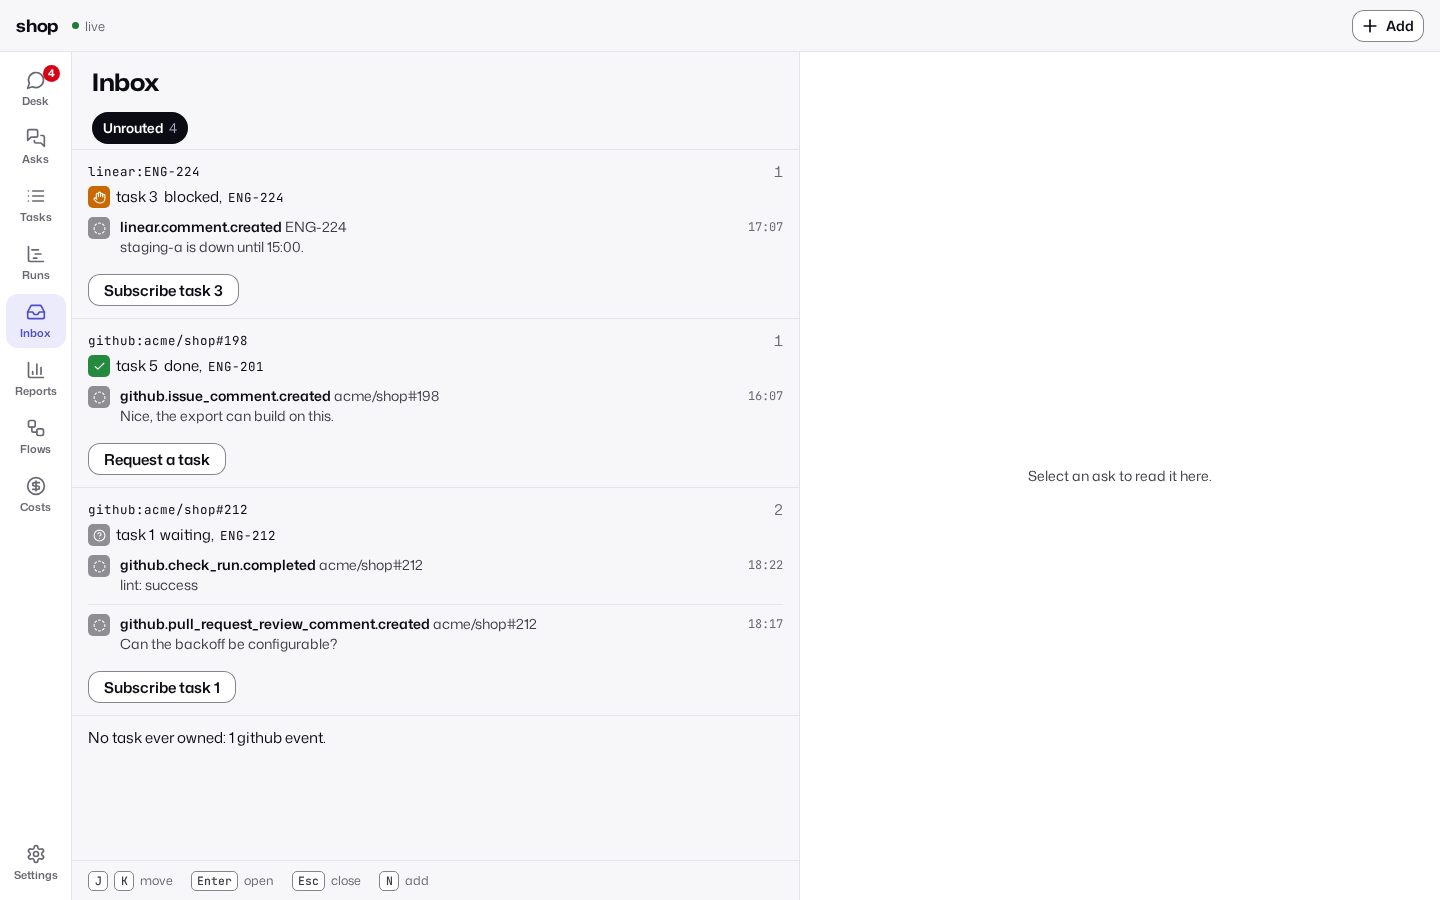
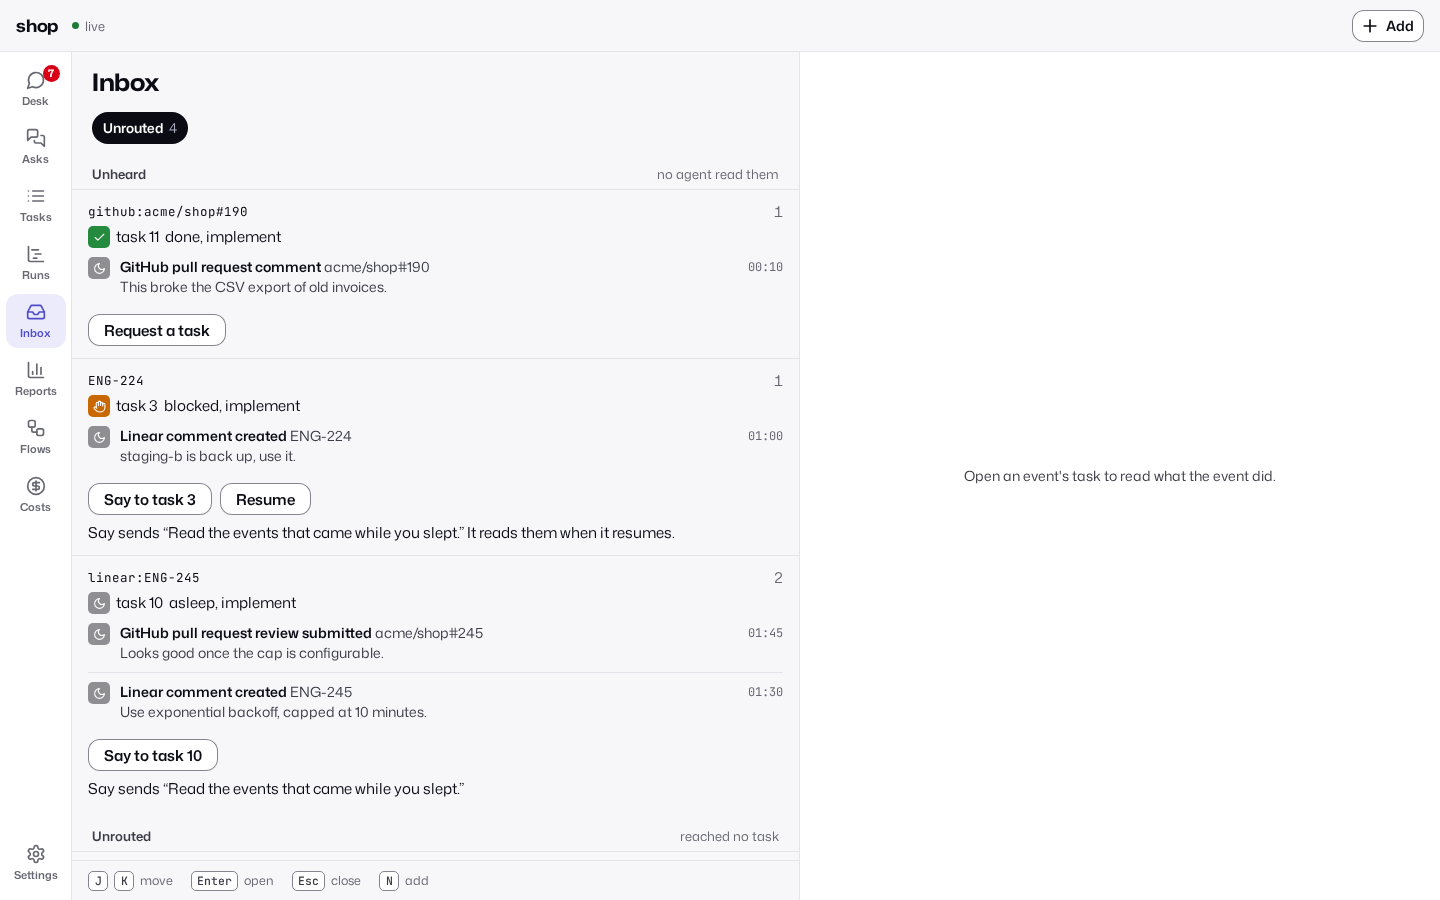
Show unheard events in Herdr when no owned group went unrouted
The Herdr Inbox returned its empty line before drawing the Unheard cards,
so a factory with only unheard events showed none. Retake the README's
Inbox screenshots with the seeded unheard events, and correct the
comment that said a say wakes a blocked task.

diff --git a/adapters/herdr/mods/priory-inbox/main.js b/adapters/herdr/mods/priory-inbox/main.js
@@ -131,11 +131,11 @@ export default class PrioryInbox extends View {
     if (!this.groups) return this.error ? [] : [div().text_color(t["text-2"]).child("Reading the unrouted events…")];
     const rest = neverOwned(this.groups.other);
     const restLine = rest ? [div().whitespace_normal().text_size(S["type-small"][0]).text_color(t["text-3"]).child(rest)] : [];
-    if (!this.groups.owned.length) {
-      return [div().whitespace_normal().text_color(t["text-2"]).child("No event of a task's resource went unrouted. An event about an ended task's pull request or issue shows here."), ...restLine];
-    }
     const unheard = this.groups.unheard ?? [];
     const heard = unheard.length ? [this.heading("Unheard", "no agent read them", t), ...unheard.map((group) => this.unheard(group, t)), this.heading("Unrouted", "reached no task", t)] : [];
+    if (!this.groups.owned.length) {
+      return [...heard, div().whitespace_normal().text_color(t["text-2"]).child("No event of a task's resource went unrouted. An event about an ended task's pull request or issue shows here."), ...restLine];
+    }
     return [...heard, ...this.groups.owned.map((group) => this.card(group.resource, group, this.route(group, t), t)), ...restLine];
   }
 
@@ -153,14 +153,14 @@ export default class PrioryInbox extends View {
   unheard(group, t) {
     const { task } = group;
     const key = `unheard-${task.id}`;
-    const [first, ...rest] = unheardActs(task);
+    const acts = unheardActs(task);
     const line = (/** @type {string} */ words) => div().whitespace_normal().text_size(S["type-small"][0]).text_color(t["text-2"]).child(words);
-    const action = rest.includes("resume")
+    const action = acts.includes("resume")
       ? h_flex().gap(S["space-2"]).items_center()
         .child(this.button(key, `Resume task ${task.id}`, async (client) => { await client.resume(task.id); return `Resumed task ${task.id}.`; }, t))
         .child(line("It reads them when it resumes."))
-      : first === "say" ? line(group.follow_up ?? "").font_family(this.font.mono)
-        : first ? this.route({ ...group, resource: task.key }, t, first, key)
+      : acts.includes("say") ? line(group.follow_up ?? "").font_family(this.font.mono)
+        : acts.length ? this.route({ ...group, resource: task.key }, t, acts[0], key)
           : line("Its next run reads them.");
     return this.card(task.key, { ...group, resource: task.key }, action, t, key);
   }

diff --git a/adapters/herdr/test/inbox.test.js b/adapters/herdr/test/inbox.test.js
@@ -11,10 +11,10 @@ const { default: Inbox } = await import("../mods/priory-inbox/main.js");
 // an asleep task's unheard events, as its unheard test serves them.
 const fixture = JSON.parse(readFileSync(new URL("./fixtures/unrouted.json", import.meta.url), "utf8"));
 
-/** The Inbox panel after its first read. */
-async function inbox() {
+/** The Inbox panel after its first read of `read`. */
+async function inbox(read = fixture) {
   herdr.reset();
-  herdr.replies.inbox = fixture;
+  herdr.replies.inbox = read;
   const view = new Inbox();
   const cx = context();
   view.init({}, cx);
@@ -98,6 +98,12 @@ test("lists the unheard groups first, an asleep task's with the command that tel
   assert.ok(shown.indexOf("github:owner/repo#9") < shown.indexOf("github:owner/repo#8"), shown);
   assert.match(shown, /task 14 asleep github:owner\/repo#9 GitHub pull request comment owner\/repo#9 Nov 17, 11:40 Cap the backoff at 10 minutes\. priory say 14 'Read the events that came while you slept\.'/);
   assert.match(shown, /Unrouted reached no task github:owner\/repo#8/);
+});
+
+test("with no owned group, the unheard groups still show above the empty line", async () => {
+  const { drawn } = await inbox({ ...fixture, unrouted: { ...fixture.unrouted, owned: [] } });
+
+  assert.match(text(drawn()), /Unheard no agent read them linear:ENG-24 .* Unrouted reached no task No event of a task's resource went unrouted\./);
 });
 
 test("a blocked task's unheard group resumes it, since it reads them when it resumes", async () => {

diff --git a/crates/priory-core/src/listing.rs b/crates/priory-core/src/listing.rs
@@ -394,9 +394,9 @@ fn unheard_events(
 /// What `priory say` tells an asleep or blocked task that kept unheard events.
 const UNHEARD_SAY: &str = "Read the events that came while you slept.";
 
-/// The command that gets a task's unheard events to an agent: `say` with `say_text` wakes an asleep
-/// or blocked task, whose next run carries them; an ended task gets what an unrouted event of it
-/// would. None for a task whose next run reads them anyway.
+/// The command that gets a task's unheard events to an agent: `say` with `say_text`, which wakes an
+/// asleep task and reaches a blocked one when it resumes; for an ended task, what an unrouted event
+/// of it would get. None for a task whose next run reads them anyway.
 fn unheard_follow_up(
     task: &Value,
     say_text: Option<&str>,

diff --git a/docs/reference/serve.md b/docs/reference/serve.md
@@ -335,7 +335,7 @@ event's `time` against now (`PRIORY_NOW` when set), so a task about to start or 
 | `events` | array | Its events, newest first, as in `owned` |
 | `follow_up` | string or null | `priory say ID 'Read the events that came while you slept.'` for an `asleep` or `blocked` task, whose next run carries them. For a done, failed or dropped task, the command `owned` gives for its key. Null for a task whose next run reads them anyway, such as a `queued` or `ready` one |
 | `say_text` | string or null | The text `follow_up` says to an `asleep` or `blocked` task, which the web Inbox's Say sends; null for any other task |
-| `request_text` | string or null | For a done task, the text of a new task keyed by its key, as in `owned`; null for any other task |
+| `request_text` | string or null | For a done task, the text of a new task keyed by its key, as in `owned`: null when its key is not a GitHub or Linear resource, and for any other task |
 
 `outsider`, beside `unrouted`, lists the comments and reviews from someone outside the repository,
 newest first: `seq`, `type`, `subject`, `time` and `actor`. No task takes them, so they come with

diff --git a/README.md b/README.md
@@ -62,7 +62,7 @@ plan as a lane graph, and you can move or drop an entry before you answer.
 
 The inbox groups unrouted events by resource and offers actions to subscribe an existing task or request a new one. Above them, it lists the events a sleeping task kept that no agent read, with a Say that tells the task to read them.
 
-![The inbox on a 1440 px screen in light mode: unrouted events grouped by resource, each with its task and a button to subscribe the task or request a new one.](docs/images/web-view-inbox-1440-light.png)
+![The inbox on a 1440 px screen in light mode: first the events sleeping tasks kept that no agent read, each task with a Say or a route button, then the unrouted events grouped by resource.](docs/images/web-view-inbox-1440-light.png)
 
 ![The inbox on a phone in dark mode.](docs/images/web-view-inbox-390-dark.png)
 
